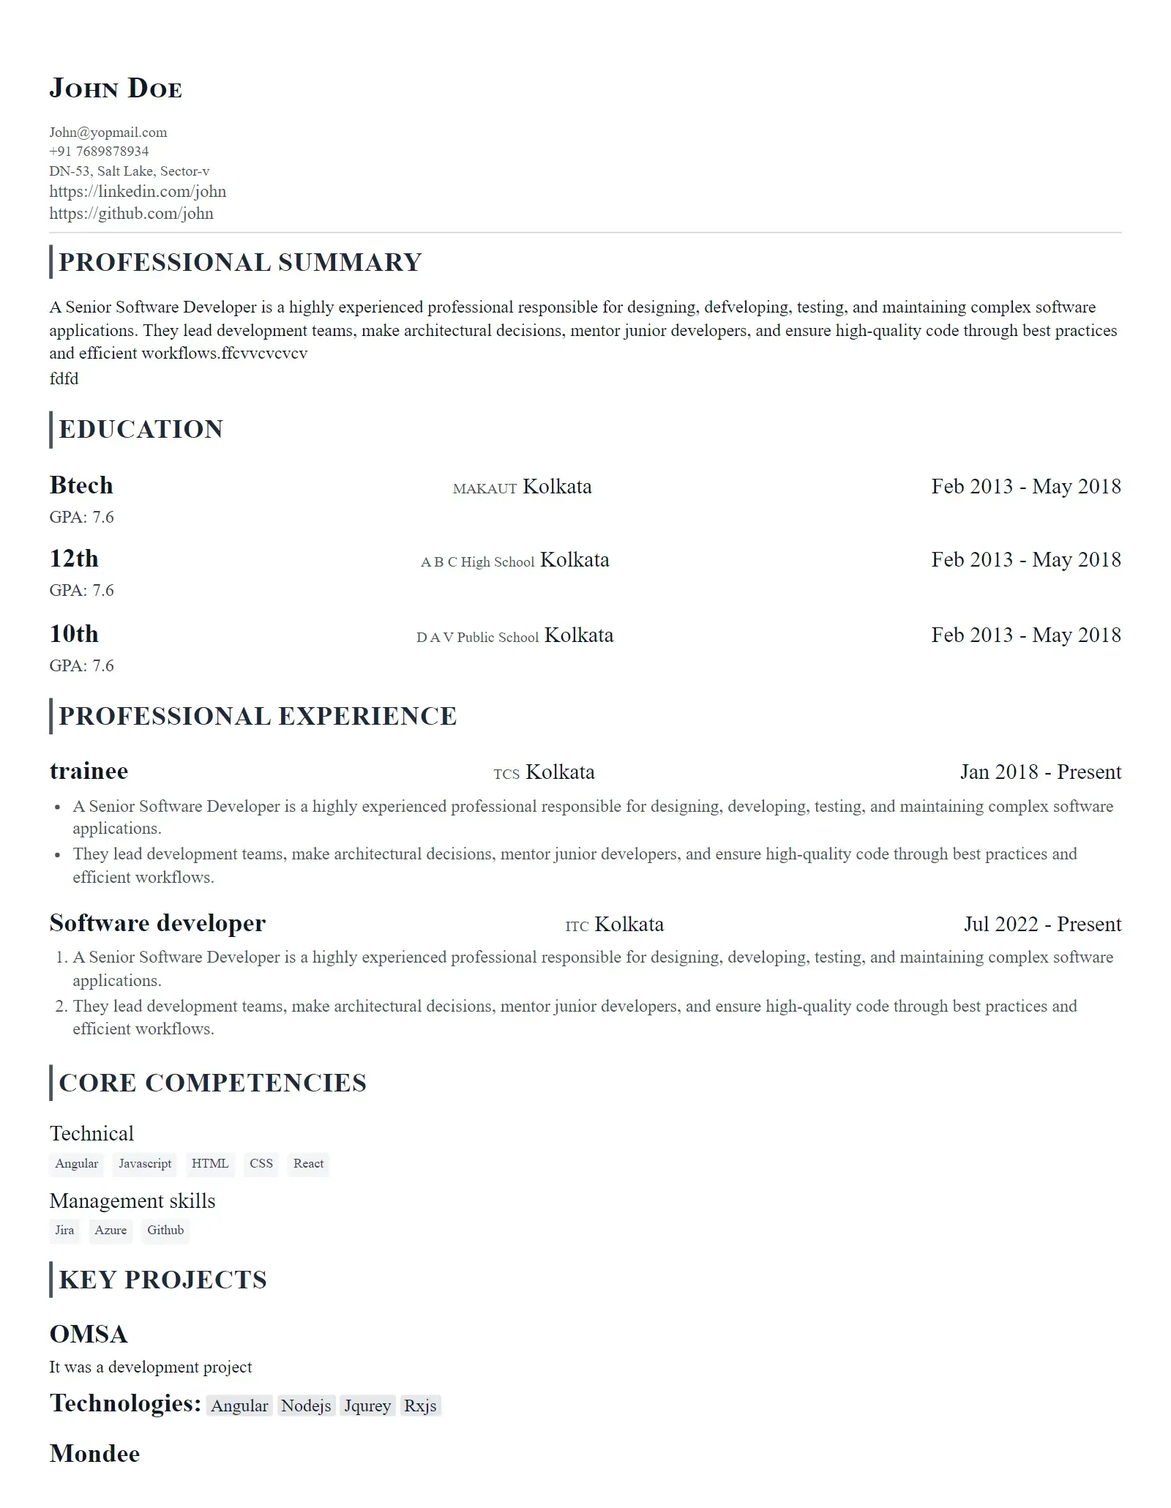
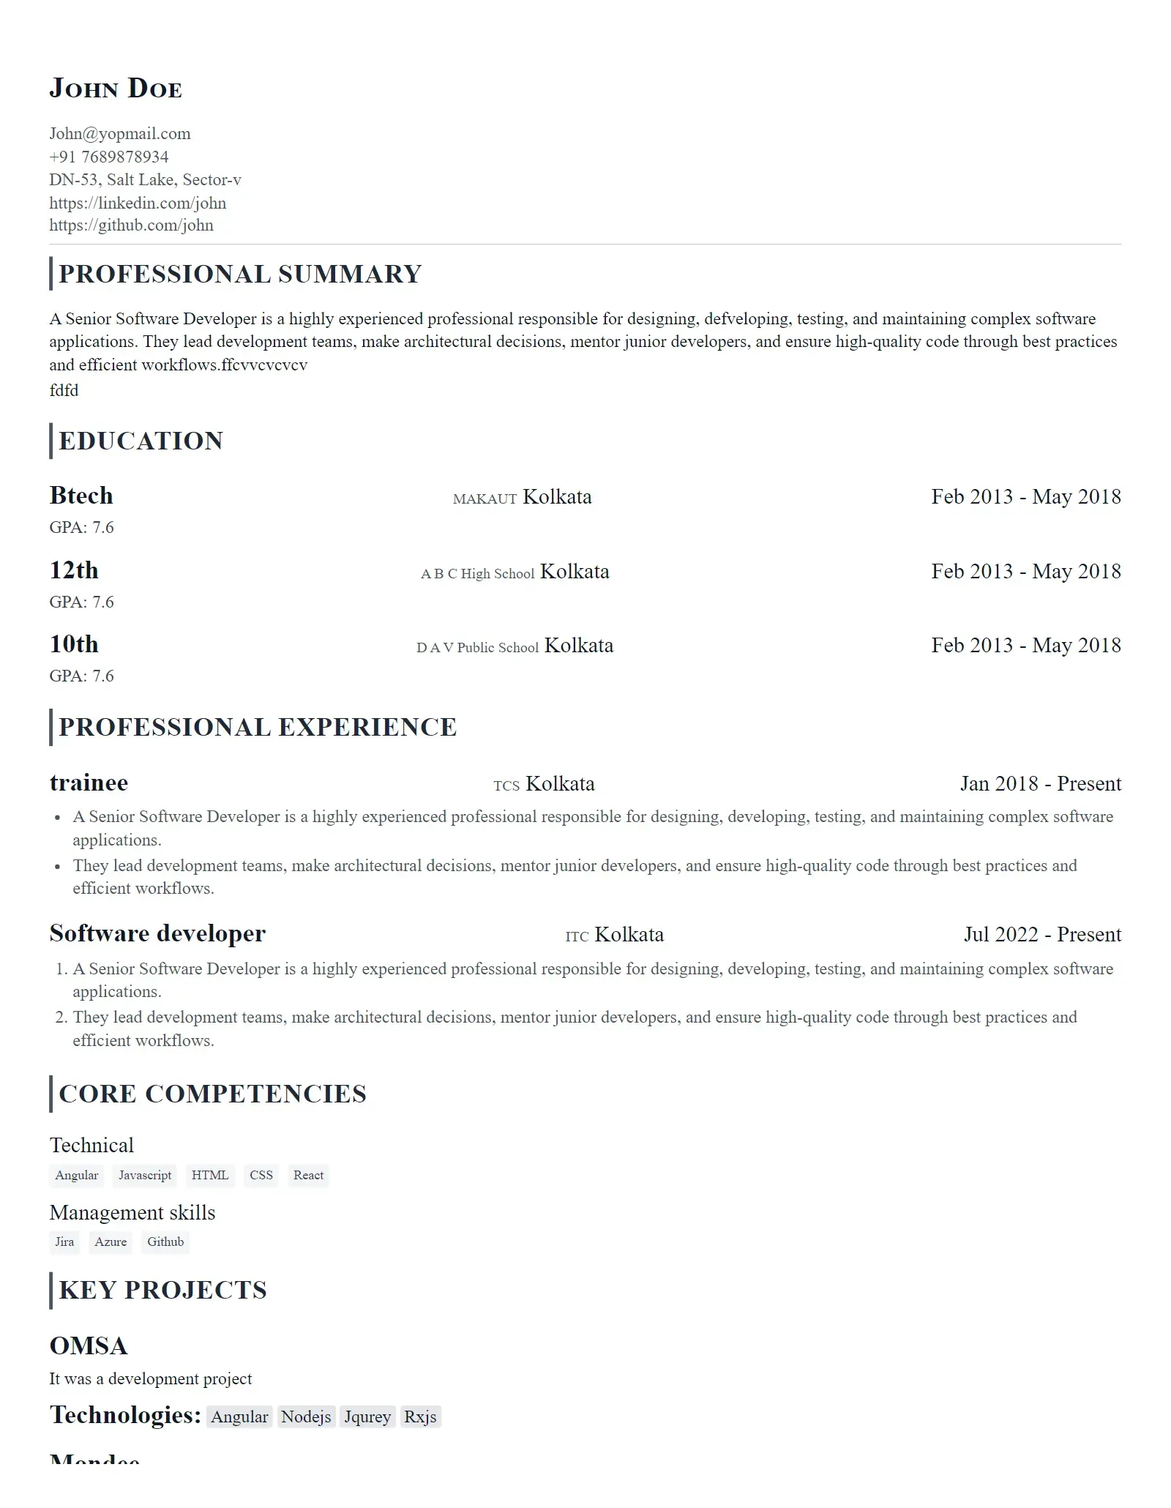
template bug fixing

diff --git a/backend/assets/templates.js b/backend/assets/templates.js
@@ -217,7 +217,7 @@ module.exports = [
       
       .header { margin-bottom: 1rem; }
       .name { font-size: 18px; font-weight: 700; color: #2563eb; margin-bottom: 0.5rem; }
-      .contact-info { display: flex; flex-wrap: wrap; gap: 12px; font-size: 13px; color: #64748b; }
+      .contact-info { display: flex; flex-wrap: wrap; gap: 12px; font-size: 15px; color: #64748b; }
       .contact-item { display: flex; align-items: center; }
       .contact-item a { color: #64748b; text-decoration: none; }
       .contact-item a:hover { text-decoration: underline; }
@@ -496,7 +496,7 @@ module.exports = [
       .header { text-align: center; margin-bottom: 1rem; padding-bottom: 0.5rem; border-bottom: 1px solid #e5e7eb; }
       .name { font-size: 18px; font-weight: 700; color: #1f2937; margin-bottom: 0.5rem; letter-spacing: 0.5px; }
       .title-line { width: 40px; height: 2px; background: #f59e0b; margin: 0 auto 0.5rem; }
-      .contact-info { display: flex; justify-content: center; gap: 10px; flex-wrap: wrap; font-size: 13px; color: #6b7280; }
+      .contact-info { display: flex; justify-content: center; gap: 10px; flex-wrap: wrap; font-size: 15px; color: #6b7280; }
       .contact-info a { color: #6b7280; text-decoration: none; }
       section { margin-top: 1rem; }
       h3 { font-size: 18px; font-weight: 600; color: #1f2937; margin-bottom: 0.5rem; position: relative; padding-bottom: 0.25rem; }
@@ -754,8 +754,8 @@ module.exports = [
       css: `.resume.modern-tech { font-family: 'Roboto', sans-serif; max-width: 8.5in; margin: 0 auto; padding: 0.5in 0.35in; background: white; color: #1f2937; line-height: 1; }
       .tech-header { display: grid; grid-template-columns: 2fr 1fr; gap: 1.2rem; margin-bottom: 1rem; padding-bottom: 0.5rem; border-bottom: 2px solid #06b6d4; }
       .name { font-size: 18px; font-weight: 700; color: #06b6d4; margin-bottom: 0.5rem; }
-      .contact-info { display: flex; flex-wrap: wrap; gap: 0.6rem; }
-      .contact-item { font-size: 13px; color: #64748b; padding: 0.2rem 0.4rem; background: #f1f5f9; border-radius: 3px; }
+      .contact-info { display: flex; flex-wrap: wrap; gap: 0.6rem; font-size: 15px; }
+      .contact-item { font-size: 15px; color: #64748b; padding: 0.2rem 0.4rem; background: #f1f5f9; border-radius: 3px; }
       .contact-item a { color: #64748b; text-decoration: none; }
       section { margin-top: 1rem; }
       h3 { font-size: 18px; font-weight: 600; color: #1f2937; margin-bottom: 0.5rem; padding-bottom: 0.25rem; border-bottom: 2px solid #06b6d4; }
@@ -3180,7 +3180,7 @@ module.exports = [
       css: `.resume.sleek-professional { font-family: 'Arial', sans-serif; max-width: 8.5in; margin: 0 auto; padding: 0.5in 0.35in; background: white; color: #1e293b; font-size: 15px; line-height: 1.4; display: grid; grid-template-columns: 2fr 1fr; gap: 20px; }
       .header { grid-column: 1 / -1; text-align: center; margin-bottom: 16px; padding-bottom: 12px; border-bottom: 2px solid #2563eb; }
       .name { font-size: 20px; font-weight: 600; color: #0f172a; margin-bottom: 8px; }
-      .contact-info { display: flex; flex-wrap: wrap; justify-content: center; gap: 12px; font-size: 10px; color: #475569; }
+      .contact-info { display: flex; flex-wrap: wrap; justify-content: center; gap: 12px; font-size: 15px; color: #475569; }
       .contact-item { color: #1e293b; }
       .contact-item a { color: #475569; text-decoration: none; }
       .contact-item a:hover { text-decoration: underline; }
@@ -3440,7 +3440,7 @@ module.exports = [
       css: `.resume.creative-portfolio { font-family: 'Arial', sans-serif; max-width: 8.5in; margin: 0 auto; padding: 0.5in 0.35in; background: white; color: #111827; font-size: 15px; line-height: 1.4; }
       .header { text-align: center; margin-bottom: 16px; padding-bottom: 12px; border-bottom: 3px solid #9333ea; }
       .name { font-size: 20px; font-weight: 600; color: #9333ea; margin-bottom: 10px; letter-spacing: 0.5px; }
-      .contact-info { display: flex; flex-wrap: wrap; justify-content: center; gap: 12px; font-size: 10px; color: #f472b6; }
+      .contact-info { display: flex; flex-wrap: wrap; justify-content: center; gap: 12px; font-size: 15px; color: #f472b6; }
       .contact-item { color: #111827; }
       .contact-item a { color: #9333ea; text-decoration: none; }
       .contact-item a:hover { text-decoration: underline; }
@@ -3706,7 +3706,7 @@ module.exports = [
       css: `.resume.dark-mode-dev { font-family: 'Arial', sans-serif; max-width: 8.5in; margin: 0 auto; padding: 0.5in 0.35in; background: white; color: #1f2937; font-size: 15px; line-height: 1.4; display: grid; grid-template-columns: 2fr 1fr; gap: 20px; }
       .header { grid-column: 1 / -1; text-align: center; margin-bottom: 16px; padding-bottom: 12px; border-bottom: 2px solid #38bdf8; }
       .name { font-size: 20px; font-weight: 600; color: #38bdf8; margin-bottom: 8px; text-shadow: 0 0 10px rgba(56, 189, 248, 0.3); }
-      .contact-info { display: flex; flex-wrap: wrap; justify-content: center; gap: 12px; font-size: 10px; color: #a855f7; }
+      .contact-info { display: flex; flex-wrap: wrap; justify-content: center; gap: 10px; font-size: 15px; color: #a855f7; }
       .contact-item { color: #1f2937; }
       .contact-item a { color: #38bdf8; text-decoration: none; }
       .contact-item a:hover { text-decoration: underline; text-shadow: 0 0 5px rgba(56, 189, 248, 0.5); }
@@ -3967,7 +3967,7 @@ module.exports = [
       css: `.resume.elegant-minimal { font-family: 'Arial', sans-serif; max-width: 8.5in; margin: 0 auto; padding: 0.5in 0.35in; background: white; color: #111827; font-size: 15px; line-height: 1.4; }
       .header { text-align: center; margin-bottom: 16px; padding-bottom: 12px; border-bottom: 1px solid #e5e7eb; }
       .name { font-size: 20px; font-weight: 600; color: #374151; margin-bottom: 8px; }
-      .contact-info { display: flex; flex-wrap: wrap; justify-content: center; gap: 12px; font-size: 13px; color: #9ca3af; }
+      .contact-info { display: flex; flex-wrap: wrap; justify-content: center; gap: 10px; font-size: 15px; color: #9ca3af; }
       .contact-item { color: #111827; }
       .contact-item a { color: #10b981; text-decoration: none; }
       .contact-item a:hover { text-decoration: underline; }
@@ -4229,7 +4229,7 @@ module.exports = [
       css: `.resume.bold-accent { font-family: 'Arial', sans-serif; max-width: 8.5in; margin: 0 auto; background: white; color: #1f2937; font-size: 15px; line-height: 1.4; padding: 0; }
       .header { background: linear-gradient(135deg, #1e40af 0%, #3b82f6 100%); color: white; padding: 16px 20px; margin-bottom: 12px; }
       .name { font-size: 20px; font-weight: 700; margin-bottom: 6px; letter-spacing: -0.5px; color: white; }
-      .contact-info { display: flex; flex-wrap: wrap; gap: 12px; font-size: 13px; color: rgba(255, 255, 255, 0.9); line-height: 1.4; }
+      .contact-info { display: flex; flex-wrap: wrap; gap: 12px; font-size: 15px; color: rgba(255, 255, 255, 0.9); line-height: 1.4; }
       .contact-item { color: rgba(255, 255, 255, 0.9); }
       .contact-item a { color: white; text-decoration: none; }
       .contact-item a:hover { text-decoration: underline; }
@@ -4455,8 +4455,8 @@ module.exports = [
           <div class="achievement-item">
             {{#if title}}<div class="achievement-title primaryFont">{{title}}</div>{{/if}}
             {{#if description}}<div class="description secondaryFont">{{{description}}}</div>{{/if}}
-            {{#if date}}<div class="achievement-date">{{formatDate date}}</div>{{/if}}
-            {{#if issuer}}<div class="achievement-issuer">{{issuer}}</div>{{/if}}
+            {{#if date}}<div class="achievement-date secondaryFont">{{formatDate date}}</div>{{/if}}
+            {{#if issuer}}<div class="achievement-issuer secondaryFont">{{issuer}}</div>{{/if}}
           </div>
           {{/each}}
         </section>
@@ -4467,8 +4467,8 @@ module.exports = [
           <h2 class="primaryFont">Languages</h2>
           {{#each languages}}
           <div class="language-item">
-            <span class="language-name">{{name}}</span>
-            <span class="language-proficiency">{{proficiency}}</span>
+            <span class="language-name secondaryFont">{{name}}</span>
+            <span class="language-proficiency secondaryFont">{{proficiency}}</span>
           </div>
           {{/each}}
         </section>
@@ -4763,99 +4763,99 @@ module.exports = [
               <div class="contact-item secondaryFont" itemprop="email">{{personalInfo.email}}</div>
               {{#if personalInfo.phone}}<div class="contact-item secondaryFont" itemprop="telephone">{{personalInfo.phone}}</div>{{/if}}
               {{#if personalInfo.address}}<div class="contact-item secondaryFont" itemprop="address">{{personalInfo.address}}</div>{{/if}}
-              {{#if personalInfo.website}}<div class="contact-item"><a href="{{personalInfo.website}}" target="_blank" itemprop="url">{{personalInfo.website}}</a></div>{{/if}}
-              {{#if personalInfo.linkedin}}<div class="contact-item"><a href="{{personalInfo.linkedin}}" target="_blank">{{personalInfo.linkedin}}</a></div>{{/if}}
-              {{#if personalInfo.github}}<div class="contact-item"><a href="{{personalInfo.github}}" target="_blank">{{personalInfo.github}}</a></div>{{/if}}
+              {{#if personalInfo.website}}<div class="contact-item secondaryFont"><a href="{{personalInfo.website}}" target="_blank" itemprop="url">{{personalInfo.website}}</a></div>{{/if}}
+              {{#if personalInfo.linkedin}}<div class="contact-item secondaryFont"><a href="{{personalInfo.linkedin}}" target="_blank">{{personalInfo.linkedin}}</a></div>{{/if}}
+              {{#if personalInfo.github}}<div class="contact-item secondaryFont"><a href="{{personalInfo.github}}" target="_blank">{{personalInfo.github}}</a></div>{{/if}}
             </div>
           </header>
           
           {{#if summary}}
             <section>
-              <h2>SUMMARY</h2>
-              <div>{{{summary}}}</div>
+              <h2 class="primaryFont">SUMMARY</h2>
+              <div class="secondaryFont">{{{summary}}}</div>
             </section>
           {{/if}}
           {{#if skills}}
             <section>
-              <h2>SKILLS</h2>
-              {{#each skills}}<div><strong>{{category}}:</strong> {{#each items}}{{name}}{{#unless @last}}, {{/unless}}{{/each}}</div>{{/each}}
+              <h2 class="primaryFont">SKILLS</h2>
+              {{#each skills}}<div class="secondaryFont"><strong>{{category}}:</strong> {{#each items}}{{name}}{{#unless @last}}, {{/unless}}{{/each}}</div>{{/each}}
             </section>
           {{/if}}
           {{#if workExperience}}
             <section>
-              <h2>EXPERIENCE</h2>
+              <h2 class="primaryFont">EXPERIENCE</h2>
               {{#each workExperience}}
                 <div class="job">
-                  <div class="job-header"><strong>{{jobTitle}}</strong><span class="dates">{{formatDate startDate}} - {{#if isCurrentJob}}Present{{else}}{{#if endDate}}{{formatDate endDate}}{{/if}}{{/if}}</span></div>
-                  <div class="company">{{company}}{{#if location}}, {{location}}{{/if}}</div>
-                  {{#if description}}<div>{{{description}}}</div>{{/if}}
-                  {{#if achievements}}<ul>{{#each achievements}}<li>{{this}}</li>{{/each}}</ul>{{/if}}
+                  <div class="job-header"><strong class="primaryFont">{{jobTitle}}</strong><span class="dates secondaryFont">{{formatDate startDate}} - {{#if isCurrentJob}}Present{{else}}{{#if endDate}}{{formatDate endDate}}{{/if}}{{/if}}</span></div>
+                  <div class="company secondaryFont">{{company}}{{#if location}}, {{location}}{{/if}}</div>
+                  {{#if description}}<div class="secondaryFont">{{{description}}}</div>{{/if}}
+                  {{#if achievements}}<ul class="secondaryFont">{{#each achievements}}<li>{{this}}</li>{{/each}}</ul>{{/if}}
                 </div>
               {{/each}}
             </section>
           {{/if}}
           {{#if projects}}
             <section>
-              <h2>PROJECTS</h2>
+              <h2 class="primaryFont">PROJECTS</h2>
               {{#each projects}}
                 <div class="project">
-                  <div class="project-header"><strong>{{name}}</strong>{{#if startDate}}<span class="dates">{{formatDate startDate}} - {{#if endDate}}{{formatDate endDate}}{{else}}Present{{/if}}</span>{{/if}}</div>
+                  <div class="project-header"><strong class="primaryFont">{{name}}</strong>{{#if startDate}}<span class="dates secondaryFont">{{formatDate startDate}} - {{#if endDate}}{{formatDate endDate}}{{else}}Present{{/if}}</span>{{/if}}</div>
                   {{#if description}}<div class="description secondaryFont">{{{description}}}</div>{{/if}}
-                  {{#if technologies}}<div class="tech">{{#each technologies}}<span class="tag">{{this}}</span>{{/each}}</div>{{/if}}
-                  {{#if url}}<div class="project-url"><strong>URL:</strong> {{url}}</div>{{/if}}
-                  {{#if githubUrl}}<div class="github-url"><strong>GitHub:</strong> {{githubUrl}}</div>{{/if}}
+                  {{#if technologies}}<div class="tech secondaryFont">{{#each technologies}}<span class="tag secondaryFont">{{this}}</span>{{/each}}</div>{{/if}}
+                  {{#if url}}<div class="project-url secondaryFont"><strong class="primaryFont">URL:</strong> {{url}}</div>{{/if}}
+                  {{#if githubUrl}}<div class="github-url secondaryFont"><strong class="primaryFont">GitHub:</strong> {{githubUrl}}</div>{{/if}}
                 </div>
               {{/each}}
             </section>
           {{/if}}
           {{#if education}}
             <section>
-              <h2>EDUCATION</h2>
+              <h2 class="primaryFont">EDUCATION</h2>
               {{#each education}}
                 <div class="edu">
-                  <div class="edu-header"><strong>{{degree}}</strong><span class="dates">{{formatDate startDate}} - {{#if isCurrentlyStudying}}Present{{else}}{{#if endDate}}{{formatDate endDate}}{{/if}}{{/if}}</span></div>
-                  <div class="institution">{{institution}}{{#if location}}, {{location}}{{/if}}</div>
-                  {{#if gpa}}<div class="gpa">GPA: {{gpa}}</div>{{/if}}
-                  {{#if description}}<div>{{{description}}}</div>{{/if}}
+                  <div class="edu-header"><strong class="primaryFont">{{degree}}</strong><span class="dates secondaryFont">{{formatDate startDate}} - {{#if isCurrentlyStudying}}Present{{else}}{{#if endDate}}{{formatDate endDate}}{{/if}}{{/if}}</span></div>
+                  <div class="institution secondaryFont">{{institution}}{{#if location}}, {{location}}{{/if}}</div>
+                  {{#if gpa}}<div class="gpa secondaryFont">GPA: {{gpa}}</div>{{/if}}
+                  {{#if description}}<div class="secondaryFont">{{{description}}}</div>{{/if}}
                 </div>
               {{/each}}
             </section>
           {{/if}}
           {{#if certifications}}
             <section>
-              <h2>CERTIFICATIONS</h2>
+              <h2 class="primaryFont">CERTIFICATIONS</h2>
               {{#each certifications}}
                 <div class="cert">
-                  <div class="cert-header"><strong>{{name}}</strong>{{#if date}}<span class="dates">{{formatDate date}}</span>{{/if}}</div>
-                  {{#if issuer}}<div class="cert-issuer"><em>{{issuer}}</em></div>{{/if}}
-                  {{#if expiryDate}}<div class="cert-expiry"><strong>Expires:</strong> {{formatDate expiryDate}}</div>{{/if}}
-                  {{#if credentialId}}<div class="cert-id"><strong>ID:</strong> {{credentialId}}</div>{{/if}}
-                  {{#if url}}<div class="cert-url"><strong>URL:</strong> {{url}}</div>{{/if}}
+                  <div class="cert-header"><strong class="primaryFont">{{name}}</strong>{{#if date}}<span class="dates secondaryFont">{{formatDate date}}</span>{{/if}}</div>
+                  {{#if issuer}}<div class="cert-issuer"><em class="secondaryFont">{{issuer}}</em></div>{{/if}}
+                  {{#if expiryDate}}<div class="cert-expiry"><strong class="primaryFont">Expires:</strong> {{formatDate expiryDate}}</div>{{/if}}
+                  {{#if credentialId}}<div class="cert-id"><strong class="primaryFont">ID:</strong> {{credentialId}}</div>{{/if}}
+                  {{#if url}}<div class="cert-url"><strong class="primaryFont">URL:</strong> {{url}}</div>{{/if}}
                 </div>
               {{/each}}
             </section>
           {{/if}}
           {{#if achievements}}
             <section>
-              <h2>ACHIEVEMENTS</h2>
+              <h2 class="primaryFont">ACHIEVEMENTS</h2>
               {{#each achievements}}
                 <div>
-                  {{#if title}}<div class="achievement-header"><strong>{{title}}</strong>{{#if date}}<span class="dates">{{formatDate date}}</span>{{/if}}</div>{{/if}}
-                  {{#if description}}<div>{{{description}}}</div>{{/if}}
-                  {{#if issuer}}<div class="issuer-info"><em>{{issuer}}</em></div>{{/if}}
+                  {{#if title}}<div class="achievement-header"><strong class="primaryFont">{{title}}</strong>{{#if date}}<span class="dates secondaryFont">{{formatDate date}}</span>{{/if}}</div>{{/if}}
+                  {{#if description}}<div class="secondaryFont">{{{description}}}</div>{{/if}}
+                  {{#if issuer}}<div class="issuer-info"><em class="secondaryFont">{{issuer}}</em></div>{{/if}}
                 </div>
               {{/each}}
             </section>
           {{/if}}
           {{#if languages}}
             <section>
-              <h2>LANGUAGES</h2>
-              {{#each languages}}<div>{{name}} - {{proficiency}}</div>{{/each}}
+              <h2 class="primaryFont">LANGUAGES</h2>
+              {{#each languages}}<div class="secondaryFont">{{name}} - {{proficiency}}</div>{{/each}}
             </section>
           {{/if}}
         </div>
       `,
-      "css": ".resume.fresh-gradient { font-family: 'Arial', sans-serif; background: #ffffff; color: #111827; padding: 0.5in 0.35in; line-height: 1.4; font-size: 15px; } .header { margin-bottom: 8px; } .name { font-size: 20px; margin: 0 0 6px; color: #3b82f6; } .contact-info { display: flex; gap: 10px; color: #3b82f6; font-size: 13px; } .contact-item a { color: #111827; text-decoration: none; } section { margin-top: 10px; background: transparent; } .job, .edu, .project { background: transparent; } h2 { color: #3b82f6; font-size: 15px; margin: 0 0 6px; } .section-card { background: #ffffff; border: 1px solid #e5e7eb; border-radius: 8px; padding: 10px; } .project-header { display: flex; justify-content: space-between; font-size: 13px; } .tag { background: linear-gradient(90deg, #3b82f6, #9333ea); color: white; padding: 2px 5px; border-radius: 6px; margin-right: 3px; font-size: 9px; } ul, ol { margin: 4px 0; padding-left: 1rem; } ul li, ol li { margin-bottom: 2px; color: #4b5563; line-height: 1.3; } ul { list-style-type: disc; } ol { list-style-type: decimal; }"
+      "css": ".resume.fresh-gradient { font-family: 'Arial', sans-serif; background: #ffffff; color: #111827; padding: 0.5in 0.35in; line-height: 1.4; font-size: 15px; } .header { margin-bottom: 8px; } .name { font-size: 20px; margin: 0 0 6px; color: #3b82f6; } .contact-info { display: flex; gap: 10px; color: #3b82f6; font-size: 15px; } .contact-item a { color: #111827; text-decoration: none; } section { margin-top: 10px; background: transparent; } .job, .edu, .project { background: transparent; } h2 { color: #3b82f6; font-size: 15px; margin: 0 0 6px; } .section-card { background: #ffffff; border: 1px solid #e5e7eb; border-radius: 8px; padding: 10px; } .project-header { display: flex; justify-content: space-between; font-size: 13px; } .tag { background: linear-gradient(90deg, #3b82f6, #9333ea); color: white; padding: 2px 5px; border-radius: 6px; margin-right: 3px; font-size: 9px; } ul, ol { margin: 4px 0; padding-left: 1rem; } ul li, ol li { margin-bottom: 2px; color: #4b5563; line-height: 1.3; } ul { list-style-type: disc; } ol { list-style-type: decimal; }"
     },
     creator: null,
     "tags": ["modern", "gradient", "colorful", "rounded"]

diff --git a/resume-builder/src/components/ResumePreviewEnhanced.js b/resume-builder/src/components/ResumePreviewEnhanced.js
@@ -173,15 +173,16 @@ function ResumePreviewEnhanced() {
         setLoading(true);
         
         // Check if we have resume data from navigation state (template change)
-        const state = location.state;
+        // const state = location.state;
         
         let resumeData;
-        if (state?.resume && state?.templateChanged) {
-          // Use resume data from template selection
-          resumeData = state.resume;
-          setResume(resumeData);
-          setHasTemplate(!!resumeData?.template);
-        } else {
+        // if (state?.resume && state?.templateChanged) {
+        //   // Use resume data from template selection
+        //   resumeData = state.resume;
+        //   setResume(resumeData);
+        //   setHasTemplate(!!resumeData?.template);
+        //   console.log('resumeData', resumeData);
+        // } else {
           // Fetch resume data from API
           const resumeResp = await resumeAPI.getResumeById(resumeId);
           if (resumeResp?.success !== false && resumeResp?.data) {
@@ -189,7 +190,7 @@ function ResumePreviewEnhanced() {
             setResume(resumeData);
             setHasTemplate(!!resumeData?.template);
           }
-        }
+        // }
 
         if (resumeData) {
           // Store default template styling data if available

diff --git a/backend/utils/templateRenderer.js b/backend/utils/templateRenderer.js
@@ -231,6 +231,7 @@ class OptimizedTemplateRenderer {
     if (templateStyling.fontSize) {
       css += `
         .${uniqueId} p,
+        .${uniqueId} .secondaryFont,
         .${uniqueId} .contact-info,
         .${uniqueId} .job-description,
         .${uniqueId} .edu-description,
@@ -241,6 +242,13 @@ class OptimizedTemplateRenderer {
         .${uniqueId} .cert-expiry,
         .${uniqueId} .cert-id,
         .${uniqueId} .language-level,
+        .${uniqueId} .language-name,
+        .${uniqueId} .language-proficiency,
+        .${uniqueId} .cert-issuer,
+        .${uniqueId} .cert-expiry,
+        .${uniqueId} .cert-id,
+        .${uniqueId} .cert-url,
+        .${uniqueId} .achievement-issuer,
         .${uniqueId} .custom-content { 
           font-size: ${templateStyling.fontSize}px !important; 
         }
@@ -336,8 +344,7 @@ class OptimizedTemplateRenderer {
       /* Small text for secondaryFont */
       .${uniqueId} .secondaryFont small,
       .${uniqueId} small.secondaryFont,
-      .${uniqueId} .secondaryFont .dates,
-      .${uniqueId} .secondaryFont .contact-item {
+      .${uniqueId} .secondaryFont .dates {
         font-size: ${smallSize}px !important;
       }
       

diff --git a/backend/routes/resumes.js b/backend/routes/resumes.js
@@ -657,7 +657,7 @@ router.get('/:id/preview/pdf-images', protect, async (req, res) => {
       }
     }
 
-    const renderer = new TemplateRenderer();
+    const renderer = new OptimizedTemplateRenderer();
     const resumeData = {
       title: resume.title,
       personalInfo: resume.personalInfo,
